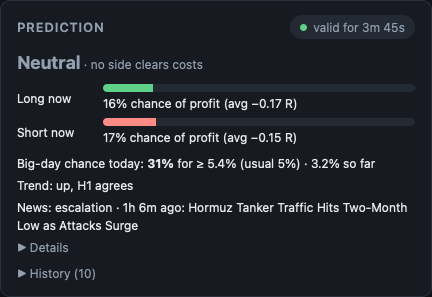
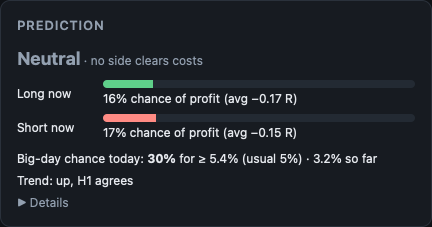
feat(predictions): local card drops the validity chip and moves History into Details
Local runs refresh on every closed candle, so the countdown chip adds
nothing; Jev keeps it. History becomes the last item of the collapsed
Details section for local runs; storage of every run is unchanged.

diff --git a/platform/web/components/PredictionPanel.tsx b/platform/web/components/PredictionPanel.tsx
@@ -200,9 +200,10 @@ export function PredictionPanel({ symbol, granularity, liveCandleTime }: { symbo
   const news = rel && rel.escalation !== 'routine' && now - timeMs(rel.publishedAt) <= NEWS_SHOWN_MS ? rel : null;
   const chip = p && (expired(p) ? <span className="chip bad">expired</span> : <span className="chip ok">valid for {left(p.expiresAt, now)}</span>);
   const clip = (s: string) => (s.length > 90 ? `${s.slice(0, 89)}…` : s);
+  const history = runs.length > 1 && <History runs={runs} shownId={p?.id} now={now} onShow={setShownId} />;
 
   return (
-    <Card title="Prediction" aside={local ? chip ?? undefined : <button type="button" onClick={() => void predict()} disabled={busy}>{busy ? 'Predicting…' : 'Predict now'}</button>}>
+    <Card title="Prediction" aside={local ? undefined : <button type="button" onClick={() => void predict()} disabled={busy}>{busy ? 'Predicting…' : 'Predict now'}</button>}>
       {!local && <label className="small"><span><input type="checkbox" checked={auto} onChange={(e) => { setAutoState({ gran: granularity, on: e.target.checked }); saveAuto(symbol, granularity, e.target.checked); }} /> Auto-update on each new {granularity} candle for {symbol}</span></label>}
       {err && <p className="msg err" role="alert">{err}</p>}
       {!p && !err && <p className="small muted">{local ? `Waiting for the next closed ${granularity} candle.` : `Predicts whether to enter long, short or not at all on the current ${granularity} candle, judged over the next 3 candles.`} Advisory only.</p>}
@@ -230,6 +231,7 @@ export function PredictionPanel({ symbol, granularity, liveCandleTime }: { symbo
               {Object.entries(p.state).filter(([k]) => k !== 'instrument' && k !== 'news').map(([k, v]) => <li key={k}><span className="muted">{k.replace(/_/g, ' ')}:</span> {v}</li>)}
             </ul>
             <p className="muted" style={{ margin: '4px 0' }}>{p.granularity} candle {day(p.candleTime)} {hm(p.candleTime)} (closed) at {p.price} · trade plan up to 72 candles, big day over the session · {age(p.askedAt, now)}</p>
+            {history}
           </details>
         </div>
       )}
@@ -267,24 +269,31 @@ export function PredictionPanel({ symbol, granularity, liveCandleTime }: { symbo
           </details>
         </div>
       )}
-      {runs.length > 1 && (
-        <details className="small" style={{ marginTop: 8 }}>
-          <summary className="muted">History ({runs.length})</summary>
-          <div className="scroll"><table>
-            <thead><tr><th>Asked</th><th>Candle</th><th>Prediction</th><th>Price</th></tr></thead>
-            <tbody>{runs.map((r) => (
-              <tr key={r.id} aria-selected={r.id === p?.id} style={r.id === p?.id ? { background: 'var(--neutral-bg)' } : undefined}>
-                <td className="num"><button className="linkish" onClick={() => setShownId(r.id)} aria-label={`Show the run from ${day(r.askedAt)} ${hm(r.askedAt)}`}>{day(r.askedAt)} {hm(r.askedAt)}</button></td>
-                <td className="num">{hm(r.candleTime)}</td>
-                <td style={{ color: TONE[r.action] }}>{r.provider === LOCAL
-                  ? <>{r.detail?.headline ?? LABEL[r.action]}{r.detail?.pprofit?.available ? ` · L ${pct(r.probabilities.long)} / S ${pct(r.probabilities.short)}` : ''}</>
-                  : <>{LABEL[r.action]} {pct(r.probabilities[r.action])}</>}{expired(r) && <span className="muted"> · expired</span>}</td>
-                <td className="num">{r.price}</td>
-              </tr>
-            ))}</tbody>
-          </table></div>
-        </details>
-      )}
+      {!d && history}
     </Card>
   );
 }
+
+// The latest stored runs of this pair; every run stays stored as forward evaluation data.
+function History({ runs, shownId, now, onShow }: { runs: Prediction[]; shownId?: number; now: number; onShow: (id: number) => void }) {
+  const expired = (r: Prediction) => timeMs(r.expiresAt) <= now;
+  return (
+    <details className="small" style={{ marginTop: 8 }}>
+      <summary className="muted">History ({runs.length})</summary>
+      <div className="scroll"><table>
+        <thead><tr><th>Asked</th><th>Candle</th><th>Prediction</th><th>Price</th></tr></thead>
+        <tbody>{runs.map((r) => (
+          <tr key={r.id} aria-selected={r.id === shownId} style={r.id === shownId ? { background: 'var(--neutral-bg)' } : undefined}>
+            <td className="num"><button className="linkish" onClick={() => onShow(r.id)} aria-label={`Show the run from ${day(r.askedAt)} ${hm(r.askedAt)}`}>{day(r.askedAt)} {hm(r.askedAt)}</button></td>
+            <td className="num">{hm(r.candleTime)}</td>
+            <td style={{ color: TONE[r.action] }}>{r.provider === LOCAL
+              ? <>{r.detail?.headline ?? LABEL[r.action]}{r.detail?.pprofit?.available ? ` · L ${pct(r.probabilities.long)} / S ${pct(r.probabilities.short)}` : ''}</>
+              : <>{LABEL[r.action]} {pct(r.probabilities[r.action])}</>}{expired(r) && <span className="muted"> · expired</span>}</td>
+            <td className="num">{r.price}</td>
+          </tr>
+        ))}</tbody>
+      </table></div>
+    </details>
+  );
+}
+

diff --git a/docs/spikes/local-prediction-provider.md b/docs/spikes/local-prediction-provider.md
@@ -66,7 +66,7 @@ The first round's 6h gauge (alert7 `_ns` artifacts, 12 M5 features, parity 1e-13
    - Updates come from two places. The engine cycle (`runWatcherCycle`, after the alert path) refreshes every watched pair. The card asks again whenever the live feed shows a candle newer than its run covers. It retries every 15 s until the engine has the closed bar.
 4. Card and settings.
    - After the operator preview, a local run has a compact layout in the same component. The Jev layout is unchanged.
-   - The validity chip sits in the card header.
+   - Local runs have no validity chip, because they refresh on every closed candle. Jev keeps it in the card header.
    - The first line is the headline with its reason, e.g. "Neutral · no side clears costs".
    - Two bars follow, recalculated on every closed candle, e.g. "Long now: 16% chance of profit (avg −0.17 R)" and "Short now: 17% chance of profit (avg −0.15 R)".
      - The bars carry a tooltip with the plan note: "Fixed plan: stop 1.5 ATR, breakeven at +1R, target 3R, out after 6 h. Mostly reflects spread and hour. Not an edge." The same note is the first muted line in Details.
@@ -81,7 +81,8 @@ The first round's 6h gauge (alert7 `_ns` artifacts, 12 M5 features, parity 1e-13
      - the latest relevant headline, even when routine
      - all inputs in plain words
      - the candle and horizon footer
-   - The three Jev bars, the subtitle, Predict now and the auto-update checkbox show only for Jev. History (local rows read "Neutral · L 16% / S 17%") and flip notifications are kept.
+     - History of the last 10 runs, collapsed, as the last item. Every run stays stored as forward evaluation data.
+   - The three Jev bars, the subtitle, Predict now and the auto-update checkbox show only for Jev. Flip notifications are kept. Local history rows read "Neutral · L 16% / S 17%"; Jev keeps History below the card.
    - The settings card has a provider select. The Go allow-list accepts `predictionProvider`, and the `get_prediction` tool text describes both providers.
 5. Parity.
    - `export_a1.py` writes a 30-min bar tail covering 75 valid sessions and the last 8 population rows for WTICO/USD and EUR/USD into `test/fixtures/local-predict-a1-parity.json` (371 KB). Each row has x, z, p and the excursion so far.
@@ -138,7 +139,7 @@ The first round's 6h gauge (alert7 `_ns` artifacts, 12 M5 features, parity 1e-13
 - **Live-feed race.** Right after a candle closes, the engine can still lack the closed bar. The first run then returns the previous candle. The card now asks again every 15 s until its run covers the candle before the forming one.
   - In the running-app check of the compact card, the card moved from the 09:35 to the 09:40 local candle 65 s after the script started, without a click.
   - Screenshots (fourth round):
-    - `docs/spikes/local-prediction-provider/prediction-card-desktop.png` (WTI M5: Neutral · no side clears costs, Long 16% / avg −0.17 R, Short 17% / avg −0.15 R, big day 31%, relevant news)
+    - `docs/spikes/local-prediction-provider/prediction-card-desktop.png` (WTI M5: Neutral · no side clears costs, Long 16% / avg −0.17 R, Short 17% / avg −0.15 R, big day 30%; no chip; History inside Details)
     - `docs/spikes/local-prediction-provider/prediction-card-mobile.png` (the same at 390 px)
     - `docs/spikes/local-prediction-provider/prediction-card-details-desktop.png` and `prediction-card-details-mobile.png` (Details open with the plan note)
     - `docs/spikes/local-prediction-provider/prediction-card-no-artifact-desktop.png` (XAG/USD M5, whose calibration failed: "Neutral · no calibrated estimate", no bars)
